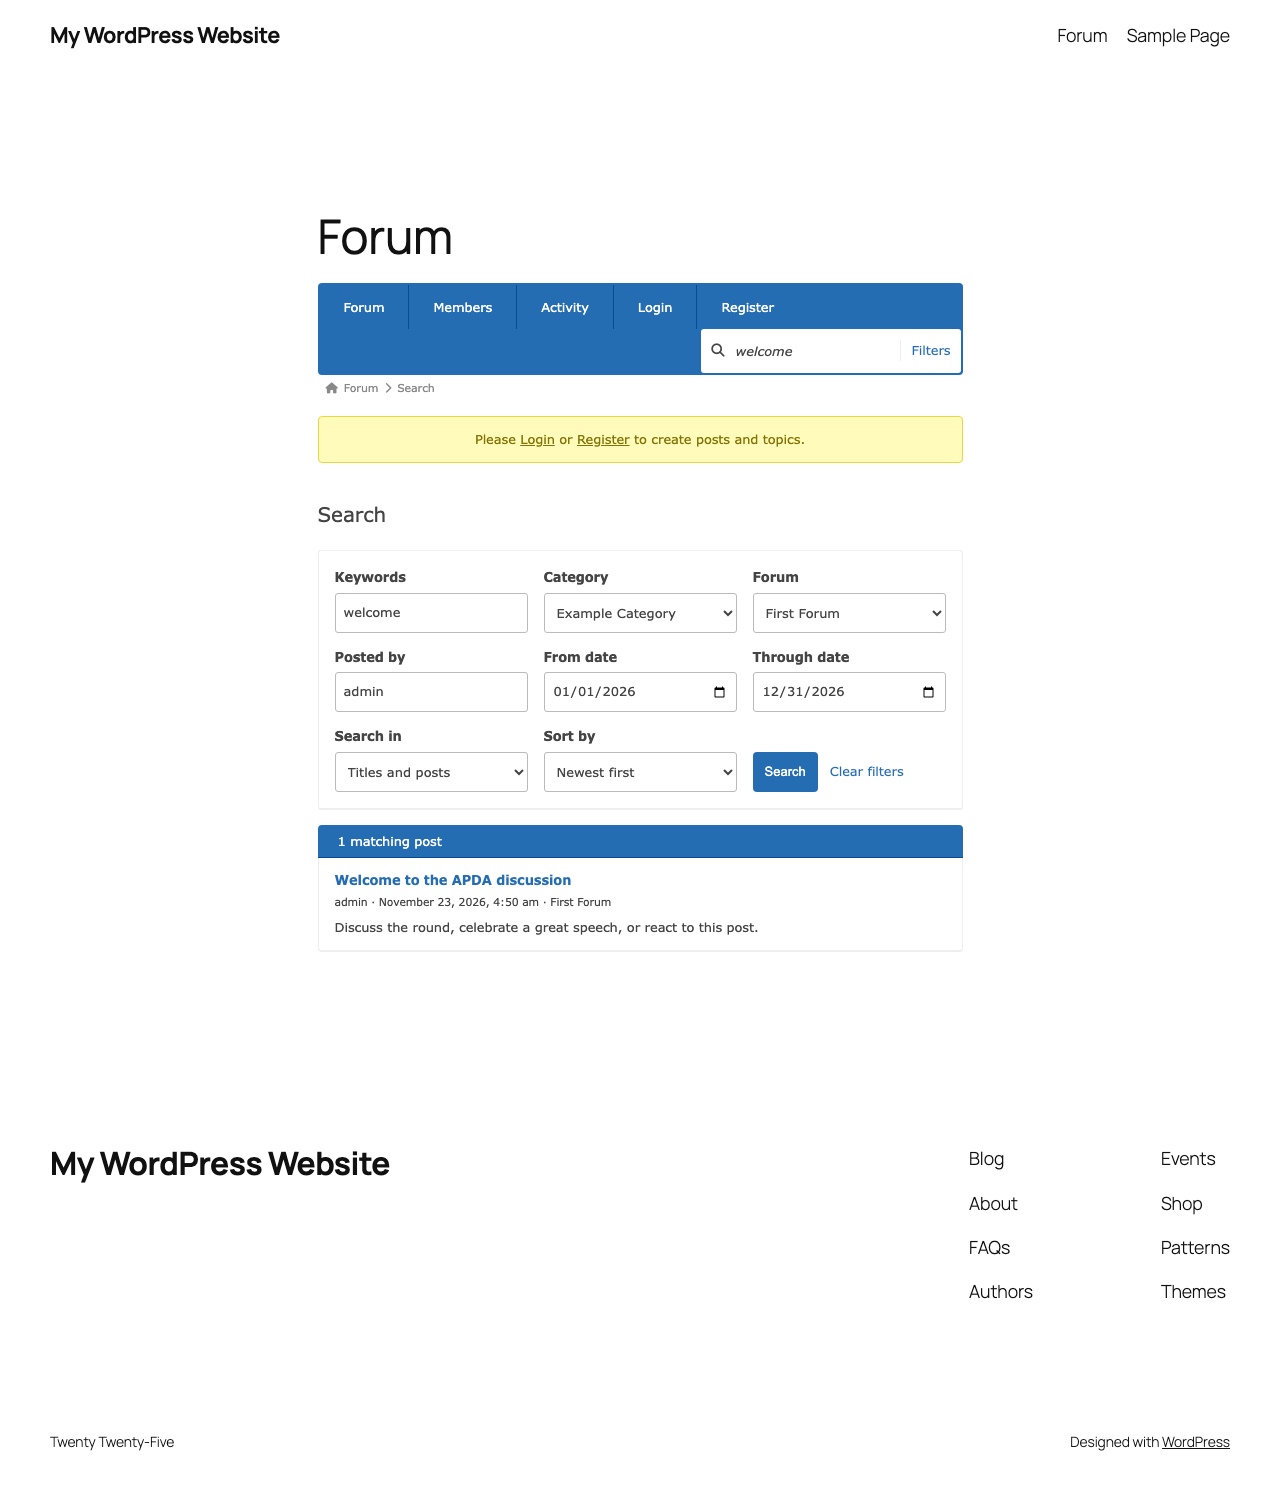
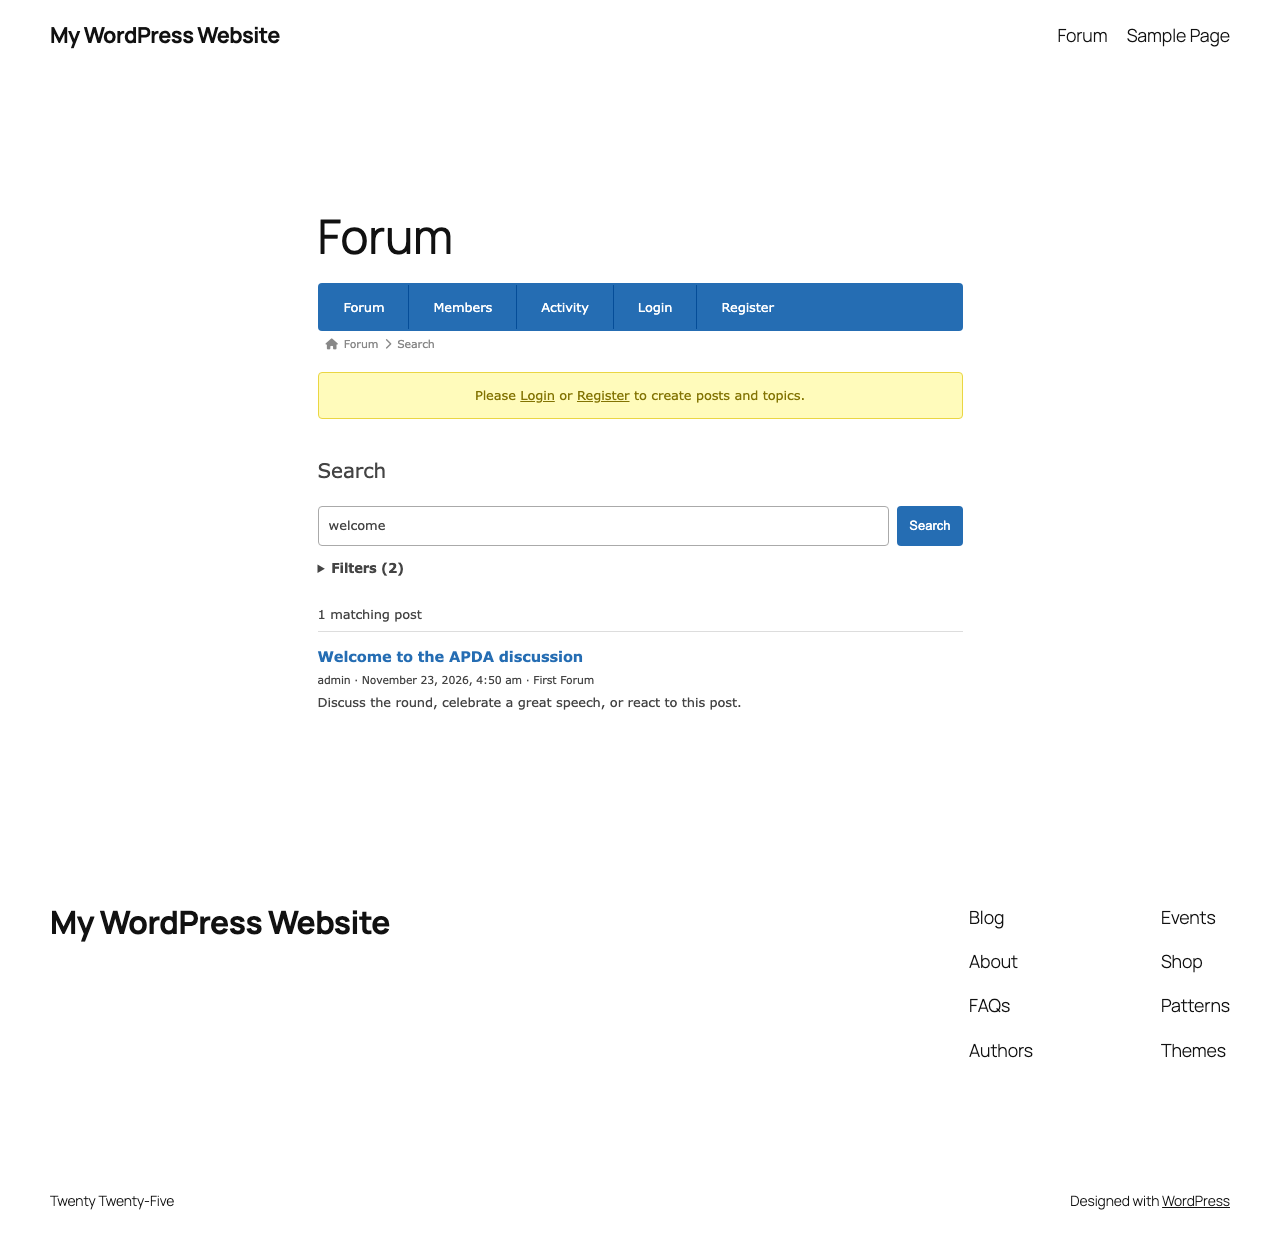
Put search results ahead of advanced filters

diff --git a/skin/style.css b/skin/style.css
@@ -954,60 +954,81 @@
 	}
 }
 
-#af-wrapper .forum-search-filters.content-container {
-	display: grid;
-	grid-template-columns: repeat(auto-fit, minmax(min(100%, 190px), 1fr));
-	gap: 14px 16px;
-	padding: 16px;
-	border-top-width: 1px;
-	border-radius: 3px;
+#af-wrapper .forum-search-form {
+	margin-bottom: 14px;
 }
-@media screen and (min-width: 380px) and (max-width: 520px) {
-	#af-wrapper .forum-search-filters.content-container {
-		grid-template-columns: repeat(2, minmax(0, 1fr));
-	}
-	#af-wrapper .forum-search-filters :is(.forum-search-wide, .forum-search-actions) {
-		grid-column: 1 / -1;
-	}
-}
-#af-wrapper .forum-search-filters label {
+#af-wrapper .forum-search-bar {
 	display: flex;
-	flex-direction: column;
-	gap: 4px;
-	font-weight: 600;
-	min-width: 0;
+	gap: 8px;
 }
-#af-wrapper .forum-search-filters label :is(input, select) {
+#af-wrapper .forum-search-bar input,
+#af-wrapper .forum-search-filters :is(input, select) {
 	box-sizing: border-box;
 	width: 100%;
 	min-width: 0;
 	min-height: 40px;
 	margin: 0;
-	padding: 6px 8px;
+	padding: 6px 10px;
 	font: inherit;
-	font-weight: 400;
 	color: inherit;
-	background-color: #fff;
-	border: 1px solid #bbb;
-	border-radius: 3px;
+	background: #fff;
+	border: 1px solid #aaa;
+	border-radius: 4px;
+}
+#af-wrapper .forum-search-options {
+	margin-top: 8px;
+}
+#af-wrapper .forum-search-options summary {
+	width: fit-content;
+	padding: 4px 0;
+	cursor: pointer;
+	font-weight: 600;
+}
+#af-wrapper .forum-search-filters {
+	display: grid;
+	grid-template-columns: repeat(2, minmax(0, 1fr));
+	gap: 12px;
+	margin-top: 6px;
+	padding: 12px;
+	border: 1px solid #ddd;
+	border-radius: 4px;
+	background: #fff;
+}
+#af-wrapper .forum-search-filters label {
+	display: flex;
+	flex-direction: column;
+	gap: 4px;
+	min-width: 0;
+}
+#af-wrapper .forum-search-dates {
+	grid-column: 1 / -1;
+	display: grid;
+	grid-template-columns: repeat(auto-fit, minmax(min(100%, 110px), 1fr));
+	gap: 8px;
+}
+@media screen and (max-width: 520px) {
+	#af-wrapper .forum-search-filters > label:nth-child(-n+2) {
+		grid-column: 1 / -1;
+	}
 }
 #af-wrapper .forum-search-actions {
 	display: flex;
 	align-items: center;
-	align-self: end;
 	flex-wrap: wrap;
-	gap: 12px;
+	gap: 10px;
+	grid-column: 1 / -1;
 }
-#af-wrapper .forum-search-actions .button {
-	cursor: pointer;
-	min-height: 40px;
+#af-wrapper .forum-search-count {
+	margin: 0;
+	padding: 6px 0;
 }
 #af-wrapper .forum-search-result {
-	display: block;
-	padding: 12px 16px;
+	padding: 12px 0;
+	border-top: 1px solid #ddd;
 	overflow-wrap: anywhere;
 }
 #af-wrapper .forum-search-result-title {
+	font-size: 1.12em;
 	font-weight: 600;
 }
 #af-wrapper .forum-search-result small {
@@ -1015,7 +1036,7 @@
 	margin-top: 2px;
 }
 #af-wrapper .forum-search-result p {
-	margin: 6px 0 0;
+	margin: 4px 0 0;
 }
 
 /* CONTENT WRAPPERS*/

diff --git a/includes/forum-search.php b/includes/forum-search.php
@@ -29,6 +29,11 @@ class AsgarosForumSearch {
             $value = isset($_GET[$field]) && is_string($_GET[$field]) ? wp_unslash($_GET[$field]) : '';
             $this->filters[$field] = sanitize_text_field($value);
         }
+
+        $scope = isset($_GET['search_scope']) && is_string($_GET['search_scope']) ? wp_unslash($_GET['search_scope']) : '';
+        if (preg_match('/^(category|forum):([1-9][0-9]*)$/D', $scope, $parts)) {
+            $this->filters['search_'.$parts[1]] = $parts[2];
+        }
     }
 
     public function get_keywords() {
@@ -49,7 +54,7 @@ class AsgarosForumSearch {
     }
 
     public function show_search_input() {
-        if (!$this->asgarosforum->options['enable_search']) {
+        if (!$this->asgarosforum->options['enable_search'] || $this->asgarosforum->current_view === 'search') {
             return;
         }
 
@@ -60,8 +65,7 @@ class AsgarosForumSearch {
         echo '<button class="search-icon" type="submit" aria-label="'.esc_attr__('Search forum', 'asgaros-forum').'"><span class="fas fa-search" aria-hidden="true"></span></button>';
         echo '<input name="keywords" type="search" maxlength="200" aria-label="'.esc_attr__('Keywords', 'asgaros-forum').'" placeholder="'.esc_attr__('Search …', 'asgaros-forum').'" value="'.esc_attr($this->get_keywords()).'">';
         echo '</form>';
-        $filters_url = $this->asgarosforum->current_view === 'search' ? '#forum-search-filters' : $url;
-        echo '<a href="'.esc_url($filters_url).'">'.esc_html__('Filters', 'asgaros-forum').'</a>';
+        echo '<a href="'.esc_url($url).'">'.esc_html__('Filters', 'asgaros-forum').'</a>';
         echo '</div>';
     }
 
@@ -77,30 +81,53 @@ class AsgarosForumSearch {
 
     private function render_filters($categories, $url) {
         $filters = $this->filters;
-        echo '<form id="forum-search-filters" class="forum-search-filters content-container" aria-label="'.esc_attr__('Search filters', 'asgaros-forum').'" method="get" action="'.esc_url($url).'">';
-        $this->render_routing_fields($url);
+        $scope = '';
+        if ($filters['search_forum'] !== '') {
+            $scope = 'forum:'.$filters['search_forum'];
+        } elseif ($filters['search_category'] !== '') {
+            $scope = 'category:'.$filters['search_category'];
+        }
 
-        echo '<label class="forum-search-wide">'.esc_html__('Keywords', 'asgaros-forum');
-        echo '<input type="search" name="keywords" maxlength="200" value="'.esc_attr($filters['keywords']).'"></label>';
-        echo '<label class="forum-search-wide">'.esc_html__('Category', 'asgaros-forum').'<select name="search_category">';
-        echo '<option value="">'.esc_html__('All accessible categories', 'asgaros-forum').'</option>';
+        $active = (int) ($scope !== '') + (int) ($filters['search_author'] !== '')
+            + (int) ($filters['search_from'] !== '' || $filters['search_to'] !== '')
+            + (int) ($filters['search_in'] === 'titles') + (int) ($filters['search_sort'] === 'oldest');
+
+        echo '<form class="forum-search-form" role="search" aria-label="'.esc_attr__('Forum posts', 'asgaros-forum').'" method="get" action="'.esc_url($url).'">';
+        $this->render_routing_fields($url);
+        echo '<div class="forum-search-bar">';
+        echo '<input type="search" name="keywords" maxlength="200" aria-label="'.esc_attr__('Search posts', 'asgaros-forum').'" placeholder="'.esc_attr__('Search posts…', 'asgaros-forum').'" value="'.esc_attr($filters['keywords']).'">';
+        echo '<button class="button button-normal" type="submit">'.esc_html__('Search', 'asgaros-forum').'</button>';
+        echo '</div>';
+
+        echo '<details class="forum-search-options"'.($this->is_valid_date_range() ? '' : ' open').'>';
+        echo '<summary>'.esc_html__('Filters', 'asgaros-forum');
+        if ($active) {
+            echo ' ('.esc_html(number_format_i18n($active)).')';
+        }
+        echo '</summary><div class="forum-search-filters">';
+
+        echo '<label>'.esc_html__('Location', 'asgaros-forum').'<select name="search_scope">';
+        echo '<option value="">'.esc_html__('Everywhere', 'asgaros-forum').'</option>';
+        echo '<optgroup label="'.esc_attr__('Categories', 'asgaros-forum').'">';
         foreach ($categories as $category) {
-            echo '<option value="'.esc_attr($category->term_id).'"'.selected($filters['search_category'], $category->term_id, false).'>'.esc_html($category->name).'</option>';
+            $value = 'category:'.$category->term_id;
+            echo '<option value="'.esc_attr($value).'"'.selected($scope, $value, false).'>'.esc_html($category->name).'</option>';
         }
-        echo '</select></label>';
-        echo '<label class="forum-search-wide">'.esc_html__('Forum', 'asgaros-forum').'<select name="search_forum">';
-        echo '<option value="">'.esc_html__('All accessible forums', 'asgaros-forum').'</option>';
+        echo '</optgroup><optgroup label="'.esc_attr__('Forums', 'asgaros-forum').'">';
         foreach ($this->get_searchable_forums($categories) as $forum) {
+            $value = 'forum:'.$forum->id;
             $label = $forum->parent_name ? $forum->parent_name.' / '.$forum->name : $forum->name;
-            echo '<option value="'.esc_attr($forum->id).'"'.selected($filters['search_forum'], $forum->id, false).'>'.esc_html($label).'</option>';
+            echo '<option value="'.esc_attr($value).'"'.selected($scope, $value, false).'>'.esc_html($label).'</option>';
         }
-        echo '</select></label>';
-        echo '<label class="forum-search-wide">'.esc_html__('Posted by', 'asgaros-forum');
+        echo '</optgroup></select></label>';
+        echo '<label>'.esc_html__('Posted by', 'asgaros-forum');
         echo '<input type="text" name="search_author" maxlength="250" placeholder="'.esc_attr__('Exact display name', 'asgaros-forum').'" value="'.esc_attr($filters['search_author']).'"></label>';
-        echo '<label>'.esc_html__('From date', 'asgaros-forum');
+        echo '<div class="forum-search-dates">';
+        echo '<label>'.esc_html__('From', 'asgaros-forum');
         echo '<input type="date" name="search_from" value="'.esc_attr($filters['search_from']).'"></label>';
-        echo '<label>'.esc_html__('Through date', 'asgaros-forum');
+        echo '<label>'.esc_html__('Through', 'asgaros-forum');
         echo '<input type="date" name="search_to" value="'.esc_attr($filters['search_to']).'"></label>';
+        echo '</div>';
         echo '<label>'.esc_html__('Search in', 'asgaros-forum').'<select name="search_in">';
         echo '<option value="">'.esc_html__('Titles and posts', 'asgaros-forum').'</option>';
         echo '<option value="titles"'.selected($filters['search_in'], 'titles', false).'>'.esc_html__('Topic titles only', 'asgaros-forum').'</option>';
@@ -110,9 +137,12 @@ class AsgarosForumSearch {
         echo '<option value="oldest"'.selected($filters['search_sort'], 'oldest', false).'>'.esc_html__('Oldest first', 'asgaros-forum').'</option>';
         echo '</select></label>';
         echo '<div class="forum-search-actions">';
-        echo '<button class="button button-normal" type="submit">'.esc_html__('Search', 'asgaros-forum').'</button>';
-        echo '<a href="'.esc_url($url).'">'.esc_html__('Clear filters', 'asgaros-forum').'</a>';
-        echo '</div></form>';
+        echo '<button class="button button-normal" type="submit">'.esc_html__('Apply filters', 'asgaros-forum').'</button>';
+        if ($active) {
+            $clear_url = $this->asgarosforum->get_link('search', false, array('keywords' => rawurlencode($filters['keywords'])), '', false);
+            echo '<a href="'.esc_url($clear_url).'">'.esc_html__('Clear filters', 'asgaros-forum').'</a>';
+        }
+        echo '</div></div></details></form>';
     }
 
     public function show_search_results() {
@@ -137,12 +167,12 @@ class AsgarosForumSearch {
 
         $count = $results['count'];
         $pagination = $this->asgarosforum->pagination->renderPagination('search', false, $count);
-        echo '<div class="title-element">'.sprintf(esc_html(_n('%s matching post', '%s matching posts', $count, 'asgaros-forum')), esc_html(number_format_i18n($count))).'</div>';
-        echo '<div class="content-container">';
+        echo '<p class="forum-search-count">'.sprintf(esc_html(_n('%s matching post', '%s matching posts', $count, 'asgaros-forum')), esc_html(number_format_i18n($count))).'</p>';
+        echo '<div class="forum-search-results">';
         foreach ($results['posts'] as $post) {
             $link = $this->asgarosforum->rewrite->get_post_link((int) $post->id, (int) $post->topic_id);
             $excerpt = wp_trim_words(strip_shortcodes($post->text ?? ''), 32);
-            echo '<article class="content-element forum-search-result">';
+            echo '<article class="forum-search-result">';
             echo '<a class="forum-search-result-title" href="'.esc_url($link).'">'.esc_html(stripslashes($post->topic_name)).'</a>';
             echo '<small>'.esc_html($this->asgarosforum->get_plain_username($post->author_id)).' &middot; ';
             echo esc_html($this->asgarosforum->format_date($post->date)).' &middot; '.esc_html($post->forum_name).'</small>';

diff --git a/tests/forum-search.php b/tests/forum-search.php
@@ -67,6 +67,8 @@ $assert_search($filters, array($reply), 'All filters must apply to the same post
 $assert_search(array_diff_key($filters, array('keywords' => true)), array($reply, $unmatched), 'Filters work without keywords');
 $assert_search(array('search_category' => (string) $search_category), array($next_day, $reply, $unmatched, $opening), 'Category-only search includes its subforum posts');
 $assert_search(array('search_forum' => (string) $parent_forum), array($next_day, $reply, $unmatched, $opening), 'Forum filters include subforum posts');
+$assert_search(array('search_scope' => 'category:'.$search_category), array($next_day, $reply, $unmatched, $opening), 'The location picker can select a category');
+$assert_search(array('search_scope' => 'forum:'.$parent_forum), array($next_day, $reply, $unmatched, $opening), 'The location picker can select a forum and its subforums');
 $assert_search(array('search_category' => (string) $other_category, 'search_forum' => (string) $parent_forum), array(), 'Forum and category restrictions must intersect');
 $assert_search(array('keywords' => 'Searchfixture', 'search_in' => 'titles'), array($opening), 'Titles-only search excludes body matches and only returns the opening post');
 $assert_search(array('keywords' => 'Searchfixture', 'search_in' => 'titles', 'search_author' => "Avery O'Neil"), array(), 'Title-only author filter applies to the author of the opening post');
@@ -86,6 +88,7 @@ $asgarosforum->options['topics_per_page'] = $original_page_size;
 $block_category = function ($allowed, $category) use ($search_category) { return $allowed && (int) $category !== $search_category; };
 add_filter('asgarosforum_filter_check_access', $block_category, 10, 2);
 $assert_search(array('keywords' => 'Searchfixture', 'search_category' => (string) $search_category), array(), 'Custom category access policies must apply even to a directly submitted category ID');
+$assert_search(array('search_scope' => 'forum:'.$parent_forum), array(), 'The location picker cannot expose a forum in an inaccessible category');
 remove_filter('asgarosforum_filter_check_access', $block_category, 10);
 
 update_term_meta($other_category, 'usergroups', array(999999));
